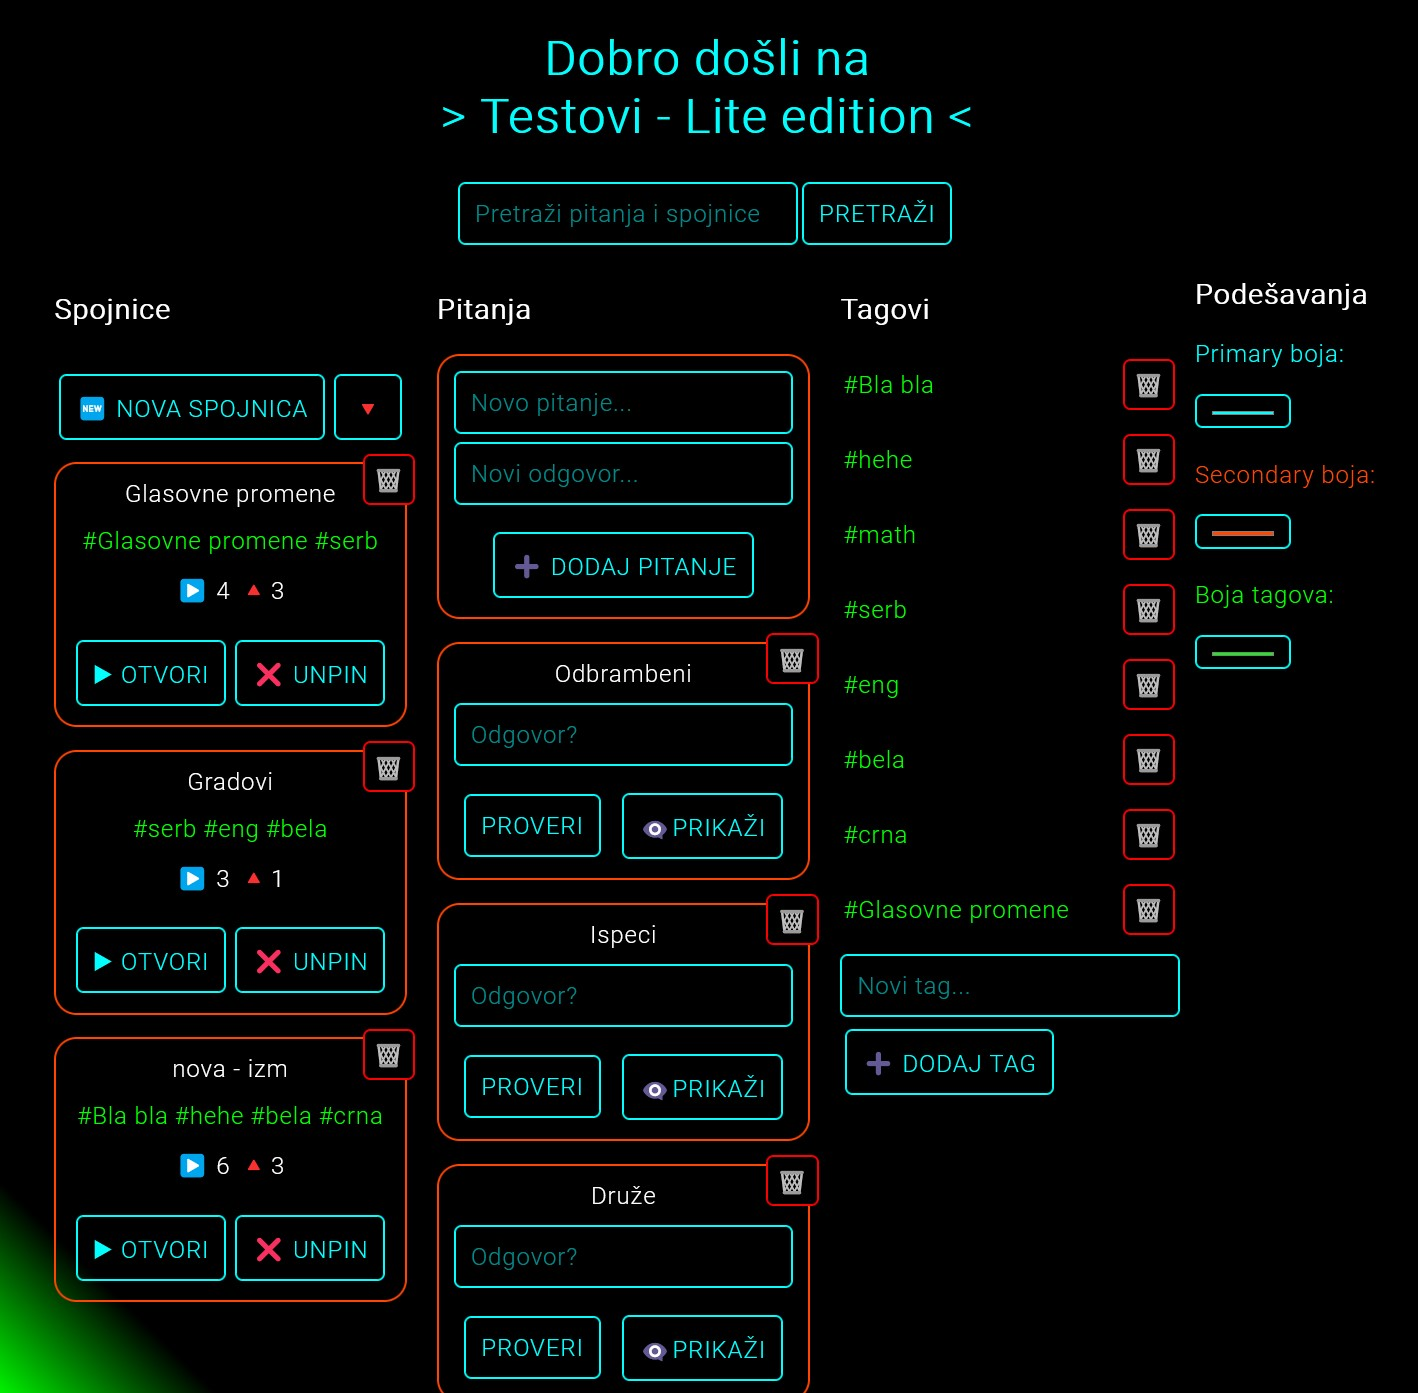
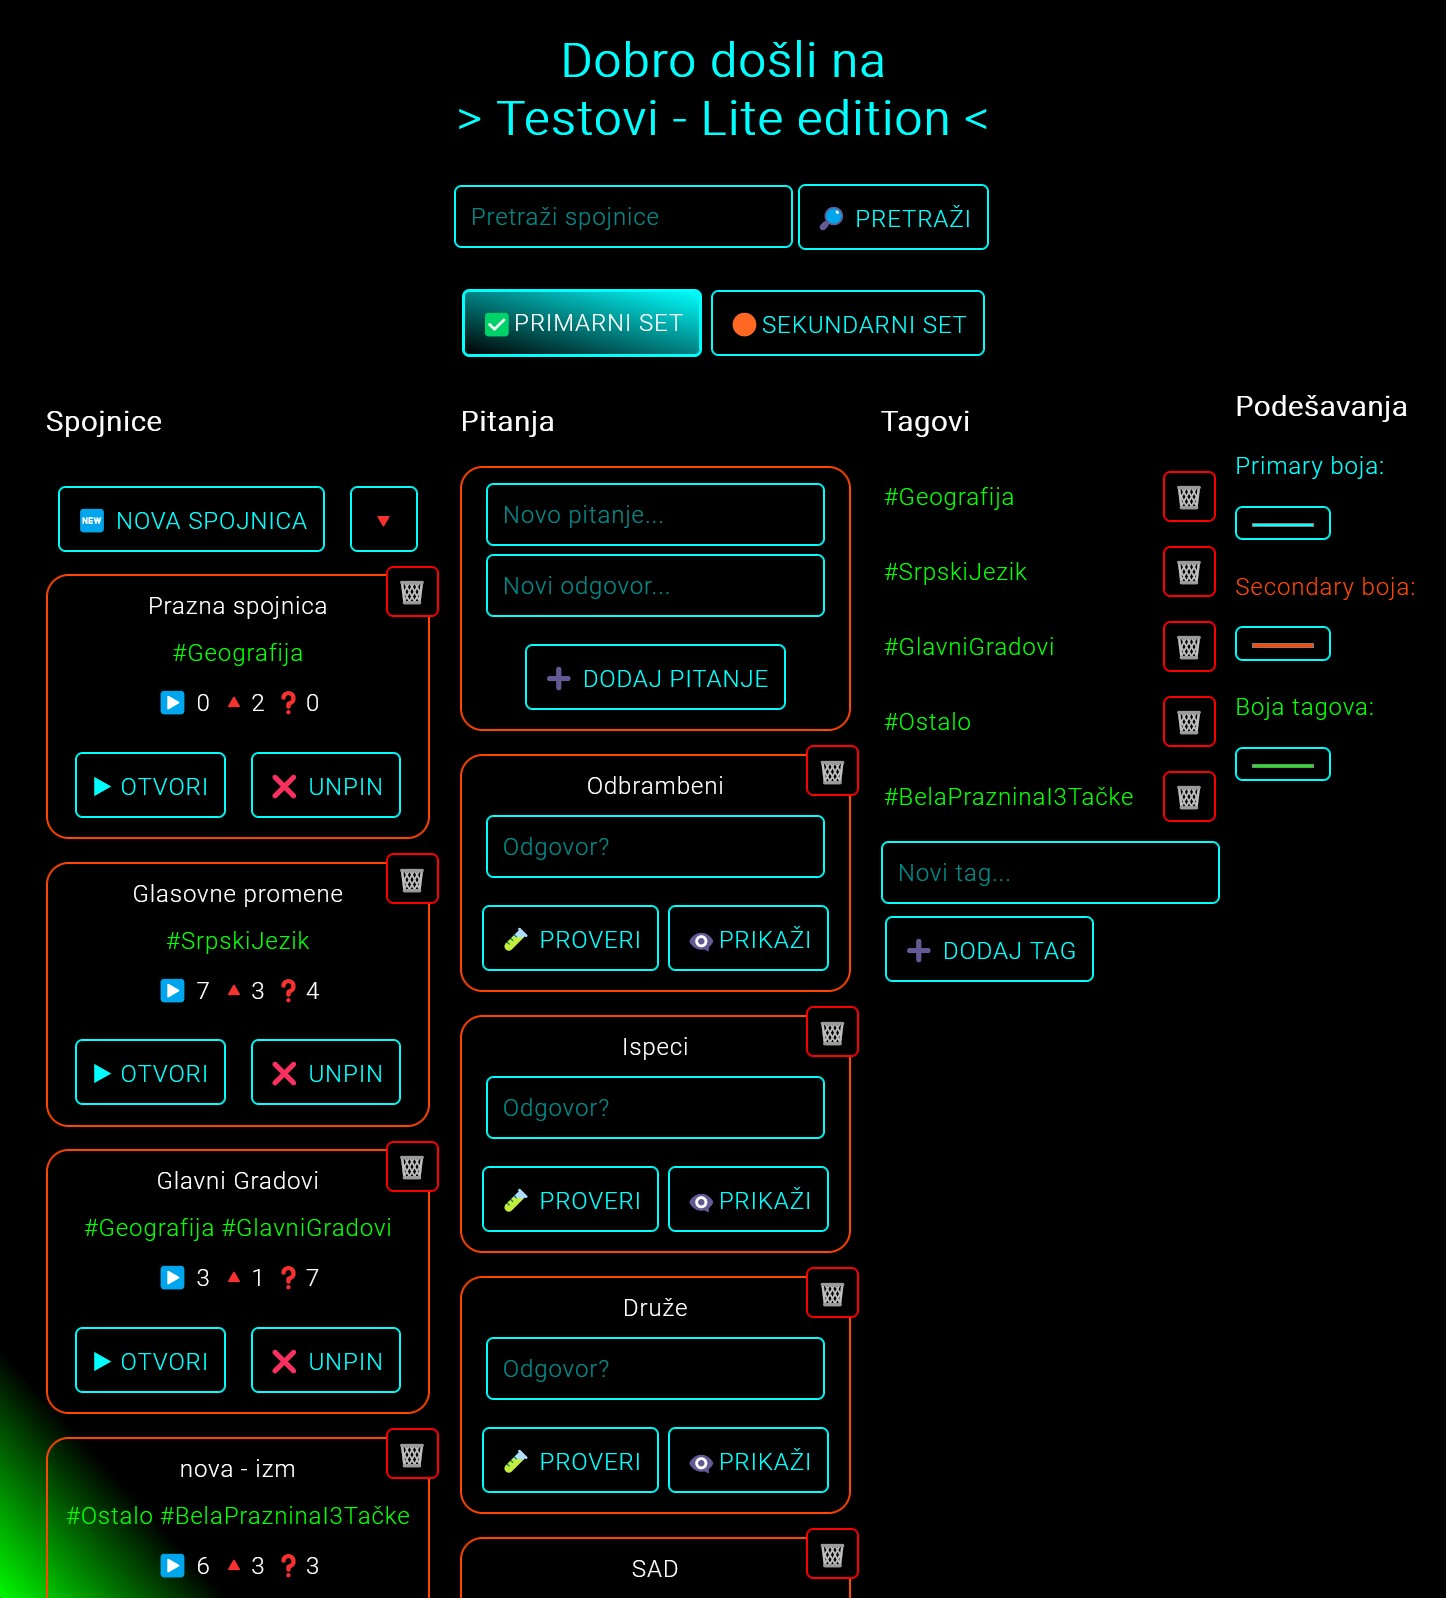
Updating md file

Changed region(s): [[0.031, 0.0309, 0.9619, 1.0], [0.8378, 0.1852, 0.9619, 0.2161], [0.8068, 0.71, 0.8378, 0.7408]]

diff --git a/FE/spojnica.js b/FE/spojnica.js
@@ -483,7 +483,7 @@ class Spojnica {
 
     const noOfGamesP = document.createElement("p");
     noOfGamesP.className = "questionText";
-    noOfGamesP.innerHTML = "▶ " + this.numberOfGames + " 🔺" + this.priority;
+    noOfGamesP.innerHTML = "▶ " + this.numberOfGames + " 🔺" + this.priority + " ❓" + this.questions.length;
     spojnicaElement.appendChild(noOfGamesP);
 
     const openButton = document.createElement("button");

diff --git a/FE/pitanje.js b/FE/pitanje.js
@@ -40,7 +40,7 @@ class Pitanje {
 
     const checkButton = document.createElement("button");
     checkButton.className = "button checkButton";
-    checkButton.innerHTML = "Proveri";
+    checkButton.innerHTML = "🧪 Proveri";
     checkButton.addEventListener("click", () => {
       if (
         answerInput.value.toLowerCase() === this.question.answer.toLowerCase()

diff --git a/README.md b/README.md
@@ -6,11 +6,22 @@
 
 ## [Mihajlo - Portfolio](https://www.mihajlo.engineer/)
 
-Testovi Lite sadrže 3 glavna entiteta:
+Testovi Lite sadrže 4 glavna entiteta:
 
+- Set
 - Spojnica
 - Pitanje
 - Tag
+
+## Set
+Set je osnovni entitet i služi kao jedna celina za niz spojnica, niz pitanja i niz tagova.
+Setovi imaju svoj container odmah ispod search box-a, gde klikom na jedan od setova
+automatski fetchujemo sva njegova pitanja, spojnice i tagove.
+Postoje 3 pomoćne tabele:
+- SetPitanja
+- SetSpojnice
+- SetTagovi
+koje služe da povežu setove sa svojim sadržajem.
 
 ## Spojnica
 
